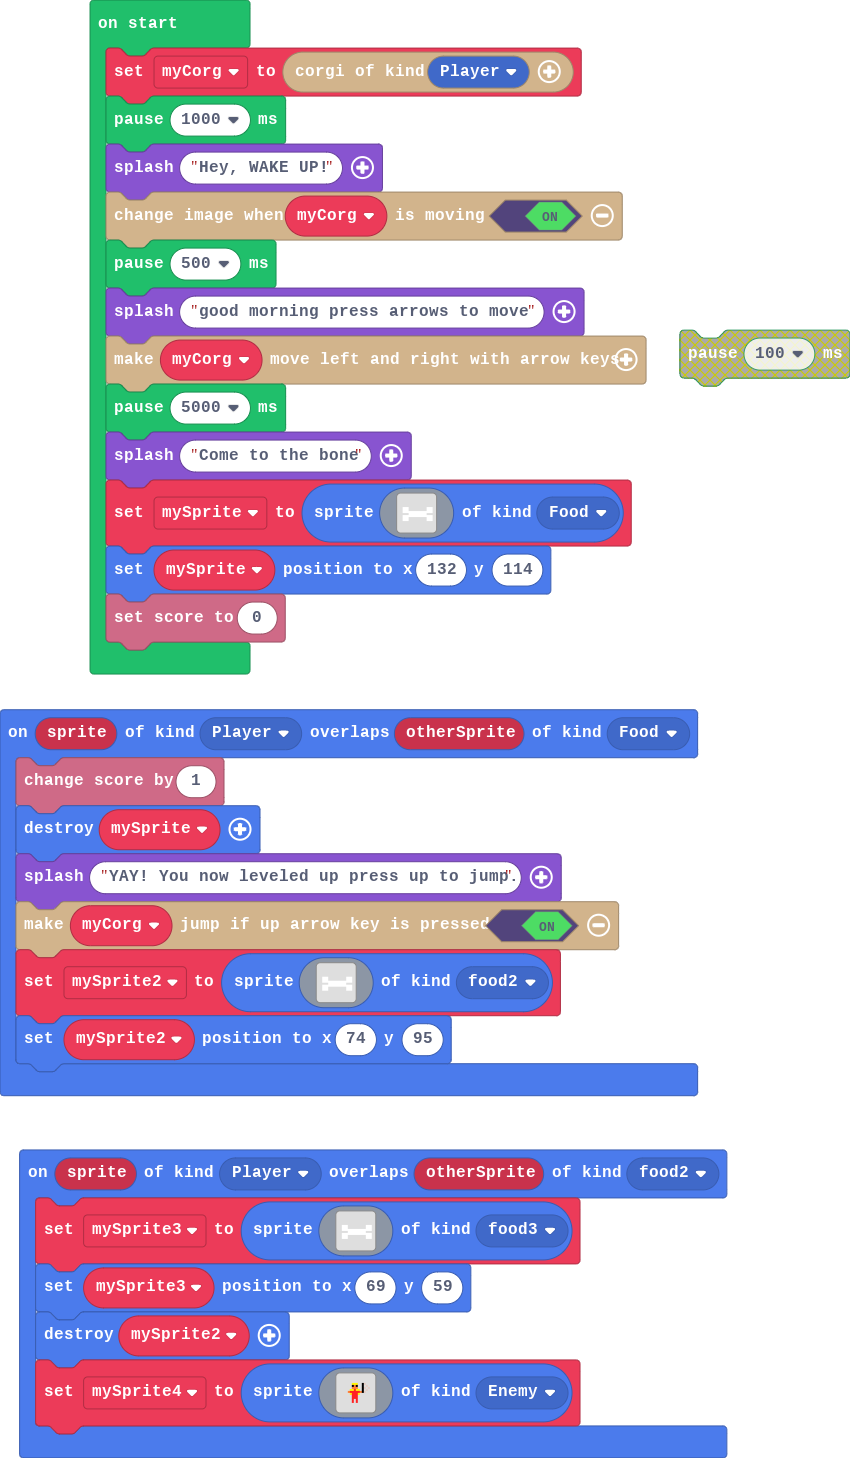
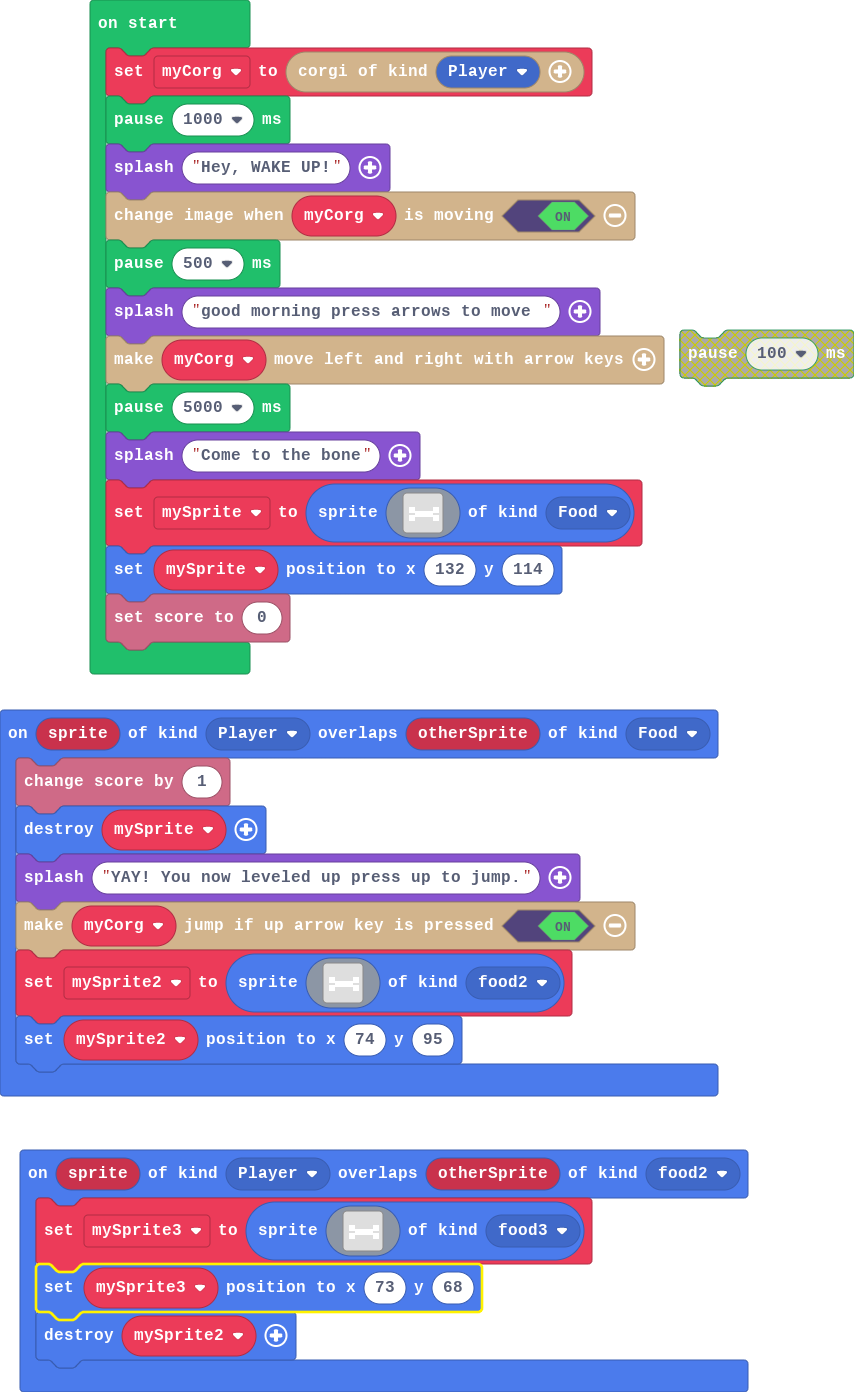
Update main.blocks, main.ts

diff --git a/main.ts b/main.ts
@@ -21,26 +21,8 @@ sprites.onOverlap(SpriteKind.Player, SpriteKind.food2, function (sprite, otherSp
         . . . . . . . . . . . . . . . . 
         . . . . . . . . . . . . . . . . 
         `, SpriteKind.food3)
-    mySprite3.setPosition(69, 59)
+    mySprite3.setPosition(73, 68)
     mySprite2.destroy()
-    mySprite4 = sprites.create(img`
-        . . . . . . . . . . . . . . . . 
-        . . . . . . . . . . . . . . . . 
-        . . . . . . . . . . . . . . . . 
-        . . . . . . 5 5 5 . . f d . . . 
-        . . . . . . f 4 f . . f . d . . 
-        . . . . . . 4 4 4 . . f d . d . 
-        . . . . . 5 5 2 5 5 . f . d . . 
-        . . . . 4 2 2 2 2 2 4 f d . . . 
-        . . . . . 5 2 2 2 5 . . . . . . 
-        . . . . . . 2 2 2 . . . . . . . 
-        . . . . . . 2 2 2 . . . . . . . 
-        . . . . . . 2 . 2 . . . . . . . 
-        . . . . . . 2 . 2 . . . . . . . 
-        . . . . . . . . . . . . . . . . 
-        . . . . . . . . . . . . . . . . 
-        . . . . . . . . . . . . . . . . 
-        `, SpriteKind.Enemy)
 })
 sprites.onOverlap(SpriteKind.Player, SpriteKind.Food, function (sprite, otherSprite) {
     info.changeScoreBy(1)
@@ -67,7 +49,6 @@ sprites.onOverlap(SpriteKind.Player, SpriteKind.Food, function (sprite, otherSpr
         `, SpriteKind.food2)
     mySprite2.setPosition(74, 95)
 })
-let mySprite4: Sprite = null
 let mySprite2: Sprite = null
 let mySprite3: Sprite = null
 let mySprite: Sprite = null
